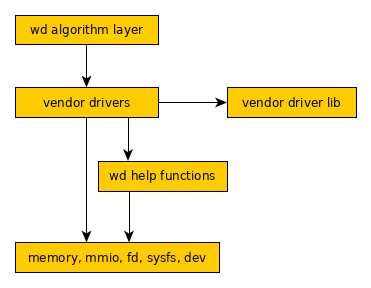
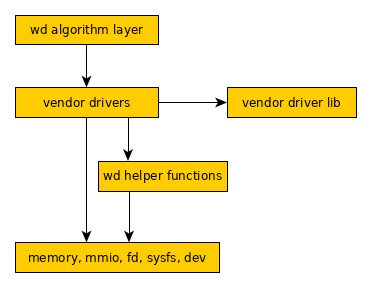
doc/wd_design: reorganize the layout
Reorganize the layout of document.

Remove some structures that are not used in user apps.

Changed region(s): [[0.2668, 0.5938, 0.593, 0.6562]]

diff --git a/docs/wd_design.md b/docs/wd_design.md
@@ -9,6 +9,7 @@
 |         |                |2) Remove "ss_va" and "ss_dma" from struct wd_chan.|
 |         |                |3) Change to user app polling async interface.  |
 |         |                |4) Add examples.  |
+|  0.92   |                |1) Reorganize the document. |
 
 
 ## Overview
@@ -18,7 +19,7 @@ hardware accelerator in user space easily and efficiently. It includes a kernel
 driver named UACCE and a user space library named libwd.
 
 libwd provides a wrapper of basic UACCE user space interfaces, they will be a 
-set of help functions. And libwd offers a set of APIs based on specific 
+set of helper functions. And libwd offers a set of APIs based on specific 
 algorithms to users, who could use this set of APIs to do specific task without 
 accessing low level implementations. libwd offers a register interface to let 
 hardware vendors to register their own user space driver, which could use above 
@@ -26,11 +27,43 @@ help functions to do UACCE related work.
 
 ![overview](./wd_overview.png)
 
-The key point of Warpdrive is that it is based on Linux SVA technology, which 
-makes device sharing the same virtual address space with CPU in user space. 
-This technology is based on IOMMU.
-
 This document focuses on the design of libwd.
+
+
+## Based Technology
+
+Warpdrive is the architecture to use accelerator in user space. The IOMMU 
+creates mapping between IOVA and PA, and software could configure IOVA on 
+hardware accelerators in user space directly.
+
+A new technology, SVA (Shared Virtual Address), is the key point of Warpdrive. 
+With SVA, IOMMU shares the same page table with MMU that is used by CPU. It 
+means the same virtual address could be accepted by IOMMU. It could share 
+the memory easily between CPU and devices without any memory copy.
+
+When SVA feature isn't enabled, the CPU address is different from device 
+address in Warpdrive. These two scenarioes are called SVA scenario and NOSVA 
+scenario in Warpdrive.
+
+In SVA scenario, memory is allocated in user space. In NOSVA scenario, memory 
+is allocated by DMA API in kernel space. So memory copy is required. If IOMMU 
+is disabled in NOSVA scenario, physical address has to be used. This behavior 
+exposes physical address to user space. It'll cause the potential security 
+issue. The NOSVA scenario is only used when SVA feature is disabled. It'll be 
+removed in the future.
+
+In SVA scenario, memory address is always virtual address whatever it's in 
+user application or user (vendor) driver. So sharing memory address is easily 
+without any memory copy. In NOSVA scenario, memory address is virtual address 
+only in user application. But it's physical address in vendor driver. Virtual 
+address could be shared. But it implied memory copy between vendor driver and 
+user application. Performance will be hurted in this case.
+
+Since it's designed to allocate memory by DMA API in kernel space, it also 
+limited only small piece of memory could be allocated in NOSVA scenario.
+
+Because of the limitations on NOSVA scenario, it'll be removed in the future. 
+Warpdrive is designed for SVA scenario.
 
 
 ## UACCE user space API
@@ -48,6 +81,66 @@ accelerator device, which attributes will be showed in sysfs, like
 user will get a channel to access the resource of this accelerator device. 
 User can configure above channel by ioctl of this opened fd, and mmap hardware 
 resource, like MMIO or channel to user space.
+
+
+## Warpdrive Helper Functions
+
+### Channel
+
+Channel is the hardware resource that used to communicate between vendor driver 
+and hardware accelerator.
+
+In SVA scenario, vendor driver needs to request and release the channel.
+
+***int wd_request_channel(struct wd_chan \*ch);***
+
+***void wd_release_channel(struct wd_chan \*ch);***
+
+When a process wants to communicate with hardware device, it needs to get a 
+new channel by *wd_request_channel()*. Since memory address could be either 
+allocated or shared in user application, vendor driver needs to bind the 
+channel and memory address together.
+
+When a process wants to access the same memory by multiple queues, it could 
+rely on the POSIX shared memory API.
+
+In NOSVA scenario, vendor driver also needs to request and release the channel.
+
+***int wd_request_channel(struct wd_chan \*ch);***
+
+***void wd_release_channel(struct wd_chan \*ch);***
+
+
+### Extra Helper functions in NOSVA
+
+Hardware always requires continuous address. When IOMMU is disabled in NOSVA 
+scenario, physical address is required and allocated by DMA API. A memory 
+allocation interface is required in NOSVA scenario.
+
+***void \*wd_reserve_mem(struct wd_chan \*ch, size_t size);***
+
+And vendor driver needs to maintain the mapping between virtual address and 
+physical (dma) address.
+
+***int wd_get_dma_from_va(struct wd_chan \*ch, void \*va);***
+
+And DMA API can't allocate large size memory.
+
+
+### mmap
+
+Whatever it's SVA or NOSVA scenario, virtual address always needs to map to 
+physical (dma) address.
+
+***void *wd_drv_mmap_qfr(struct wd_chan \*ch, enum uacce_qfrt qfrt, 
+size_t size);*** maps qfile region to user space. It's just fill "q->fd" 
+and "q->qfrs_offset[qfrt]" into mmap().
+
+***void wd_drv_unmap_qfr(struct wd_chan \*ch, void \*addr, 
+enum uacce_qfrt qfrt, size_t size);*** destroys the qfile region by unmap().
+
+qfrt means queue file region type. The details could be found in UACCE kernel 
+patch set <https://lkml.org/lkml/2019/11/22/1728>.
 
 
 ## Warpdrive Algorithm Interface
@@ -95,6 +188,11 @@ compression or decompression.
         int          flush_type;  /* NO_FLUSH, SYNC_FLUSH, FINISH, INVALID */
     };
 ```
+
+"src" and "dst" fields of "struct wd_comp_arg" are virtual address. Although 
+DMA address is used in NOSVA scenario, user application doesn't need the DMA 
+address. So they're are stored in "priv" structure by vendor driver.
+
 
 ***struct wd_comp_ctx \*wd_alg_comp_alloc_ctx(int alg_type)*** requests a 
 context.
@@ -148,147 +246,6 @@ When the request of compression or decompression arrives, it compares the
 device name with vendor driver. If they match, related hardware implementation 
 is linked to "hw" field of "struct wd_comp_ctx". By this way, vendor driver 
 binds to compression algorithm layer with context.
-
-
-## Warpdrive helper interfaces
-
-Warpdrive helper interfaces that are based on UACCE in kernel space. UACCE 
-supports two scenarios, SVA scenario and NOSVA scenario.
-
-Some structures are evolving and all scenarios are mentioned in below.
-
-### struct uacce_dev_info
-
-```
-    struct uacce_dev_info {
-        int node_id;
-        int numa_dis;
-        int iommu_type;
-        int flags;
-        ...
-        unsigned long qfrs_offset[UACCE_QFRT_MAX];
-    };
-```
-
-Most fields of "uacce_dev_info" are parsed from sysfs node. This structure 
-is used in Warpdrive helper layer. And it won't be exported to user application.
-
-
-### struct wd_chan
-
-QM (queue management) is a hardware communication mechanism that is used in 
-Hisilicon platform. But it's not common enough that every vendor adopts this 
-communication mechanism. So suggest to use a much generic name, "wd_chan". 
-*(chan means channel)*
-
-
-```
-    struct wd_chan {
-        int  fd;
-        char dev_path[PATH_STR_SIZE];
-        void *dev_info;   // point to struct uacce_dev_info
-        int  (*alloc_chan)(...);
-        void (*free_chan)(...);
-        void *priv;       // point to vendor specific structure
-    };
-```
-
-Since algorithm interface is accessed by user application, channel is an 
-internal resource between algorithm layer and vendor driver layer. User 
-application can't access "struct wd_chan".
-
-"struct wd_chan" is allocated by *wd_request_channel()* and released by 
-*wd_release_channel()* in algorithm layer. The "priv" field points to vendor 
-specific structure.
-
-*wd_request_channel()* actually compares device name from sysfs node with 
-registered driver name. If they're matched, vendor implementation on algorithm 
-APIs are bound to the context and vendor impelmentation on channels are bound 
-to "struct wd_chan".
-
-### mmap
-
-***void *wd_drv_mmap_qfr(struct wd_chan \*ch, enum uacce_qfrt qfrt, 
-size_t size);*** maps qfile region to user space. It's just fill "q->fd" 
-and "q->qfrs_offset[qfrt]" into mmap().
-
-***void wd_drv_unmap_qfr(struct wd_chan \*ch, void \*addr, 
-enum uacce_qfrt qfrt, size_t size);*** destroys the qfile region by unmap().
-
-
-### SVA Scenario
-
-In the SVA scenario, IOVA is used in DMA transaction. DMA observes continuous 
-memory because of IOVA, and it's unnecessary to reserve any memory in kernel. 
-So user process could allocate or get memory from anywhere.
-
-***int wd_request_channel(struct wd_chan \*ch);***
-
-***void wd_release_channel(struct wd_chan \*ch);***
-
-When a process wants to communicate with hardware device, it needs to get a 
-new by *wd_request_channel()*. The process could get memory by allocation 
-(malloc) or any existed memory. If the process wants to use multiple small 
-memory blocks, it just need to get multiple memory.
-
-When a process wants to access the same memory by multiple queues, it could 
-rely on the POSIX shared memory API.
-
-By the way, SVA scenario is not limited in DMA transaction. We just use DMA 
-transaction as an example at here.
-
-
-### NOSVA Scenario
-
-
-In the NOSVA scenario, Warpdrive works whatever IOMMU is enabled or not. Since 
-scatter/gather mode isn't enabled, DMA needs continuous memory. So physical 
-address should to be filled for DMA transaction.
-
-When user application needs memory, it should send memory request to Warpdrive. 
-The memory with physical continuous address is allocated by DMA API in kernel 
-space. Warpdrive maps the continuous memory in kernel space to 
-**UACCE_QFRT_SS** qfile region.
-
-When user wants to integrate Warpdrive into some libraries with NOSVA scenario, 
-user has to do an extra memory copy since it needs the memory with physical 
-continuous address.
-
-And DMA API can't allocate large size memory. NOSVA scenario isn't the major 
-target in Warpdrive. Warpdrive is designed for SVA scenario. So NOSVA scenario 
-will be abandoned in the future.
-
-
-#### NOSVA Interfaces
-
-The interfaces in NOSVA scenario are in below.
-
-***int wd_request_channel(struct wd_chan \*ch);***
-
-***void wd_release_channel(struct wd_chan \*ch);***
-
-***void \*wd_reserve_mem(struct wd_chan \*ch, size_t size);***
-
-***int wd_get_dma_from_va(struct wd_chan \*ch, void \*va);***
-
-When a process wants to communicate the hardware device, it calls 
-*wd_request_channel()* and *wd_reserve_mem()* in turn to get a chunk of memory.
-
-*wd_reserve_mem()* maps the **UACCE_QFRT_SS** qfile region to a process, so it 
-could only be called once in a process.
-
-When a process prepares the DMA transaction, it needs to convert VA into PA by 
-*wd_get_pa_from_va()*.
-
-*wd_reserve_mem()* and *wd_get_dma_from_va()* are only used in NOSVA scenario. 
-Since NOSVA isn't a longtime supported scenario, these APIs will be abandoned 
-in the future.
-
-
-### Sharing address
-
-The address could be easily shared in SVA scenario. But we don't support 
-sharing address in NOSVA scenario.
 
 
 ## Example
